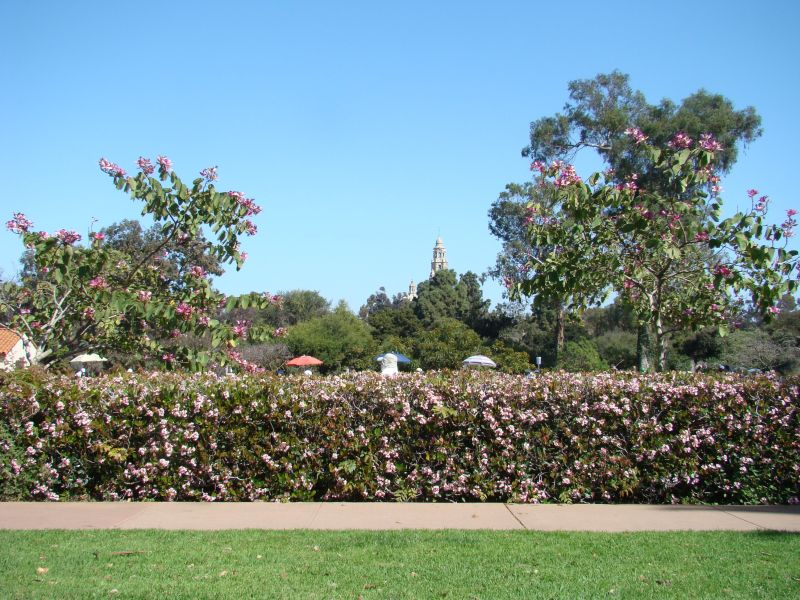
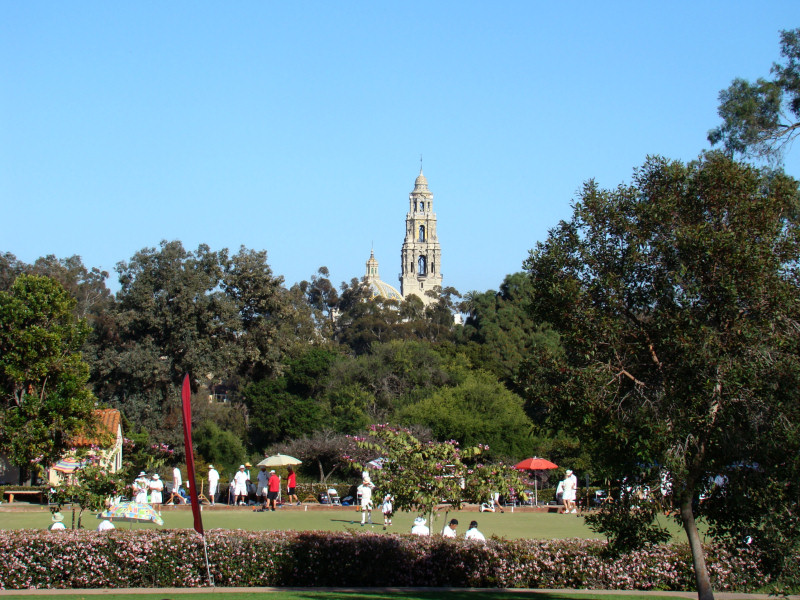
Added picture caption content for gallery pages

diff --git a/README.md b/README.md
@@ -53,6 +53,9 @@ For the default gulp task a browser should open with the Beautiful Gardens site.
 
 ## Changelog ##
 
+### 0.1.6 ###
+* Added picture caption content for gallery pages
+
 ### 0.1.5 ###
 * Added content to Home page
 
